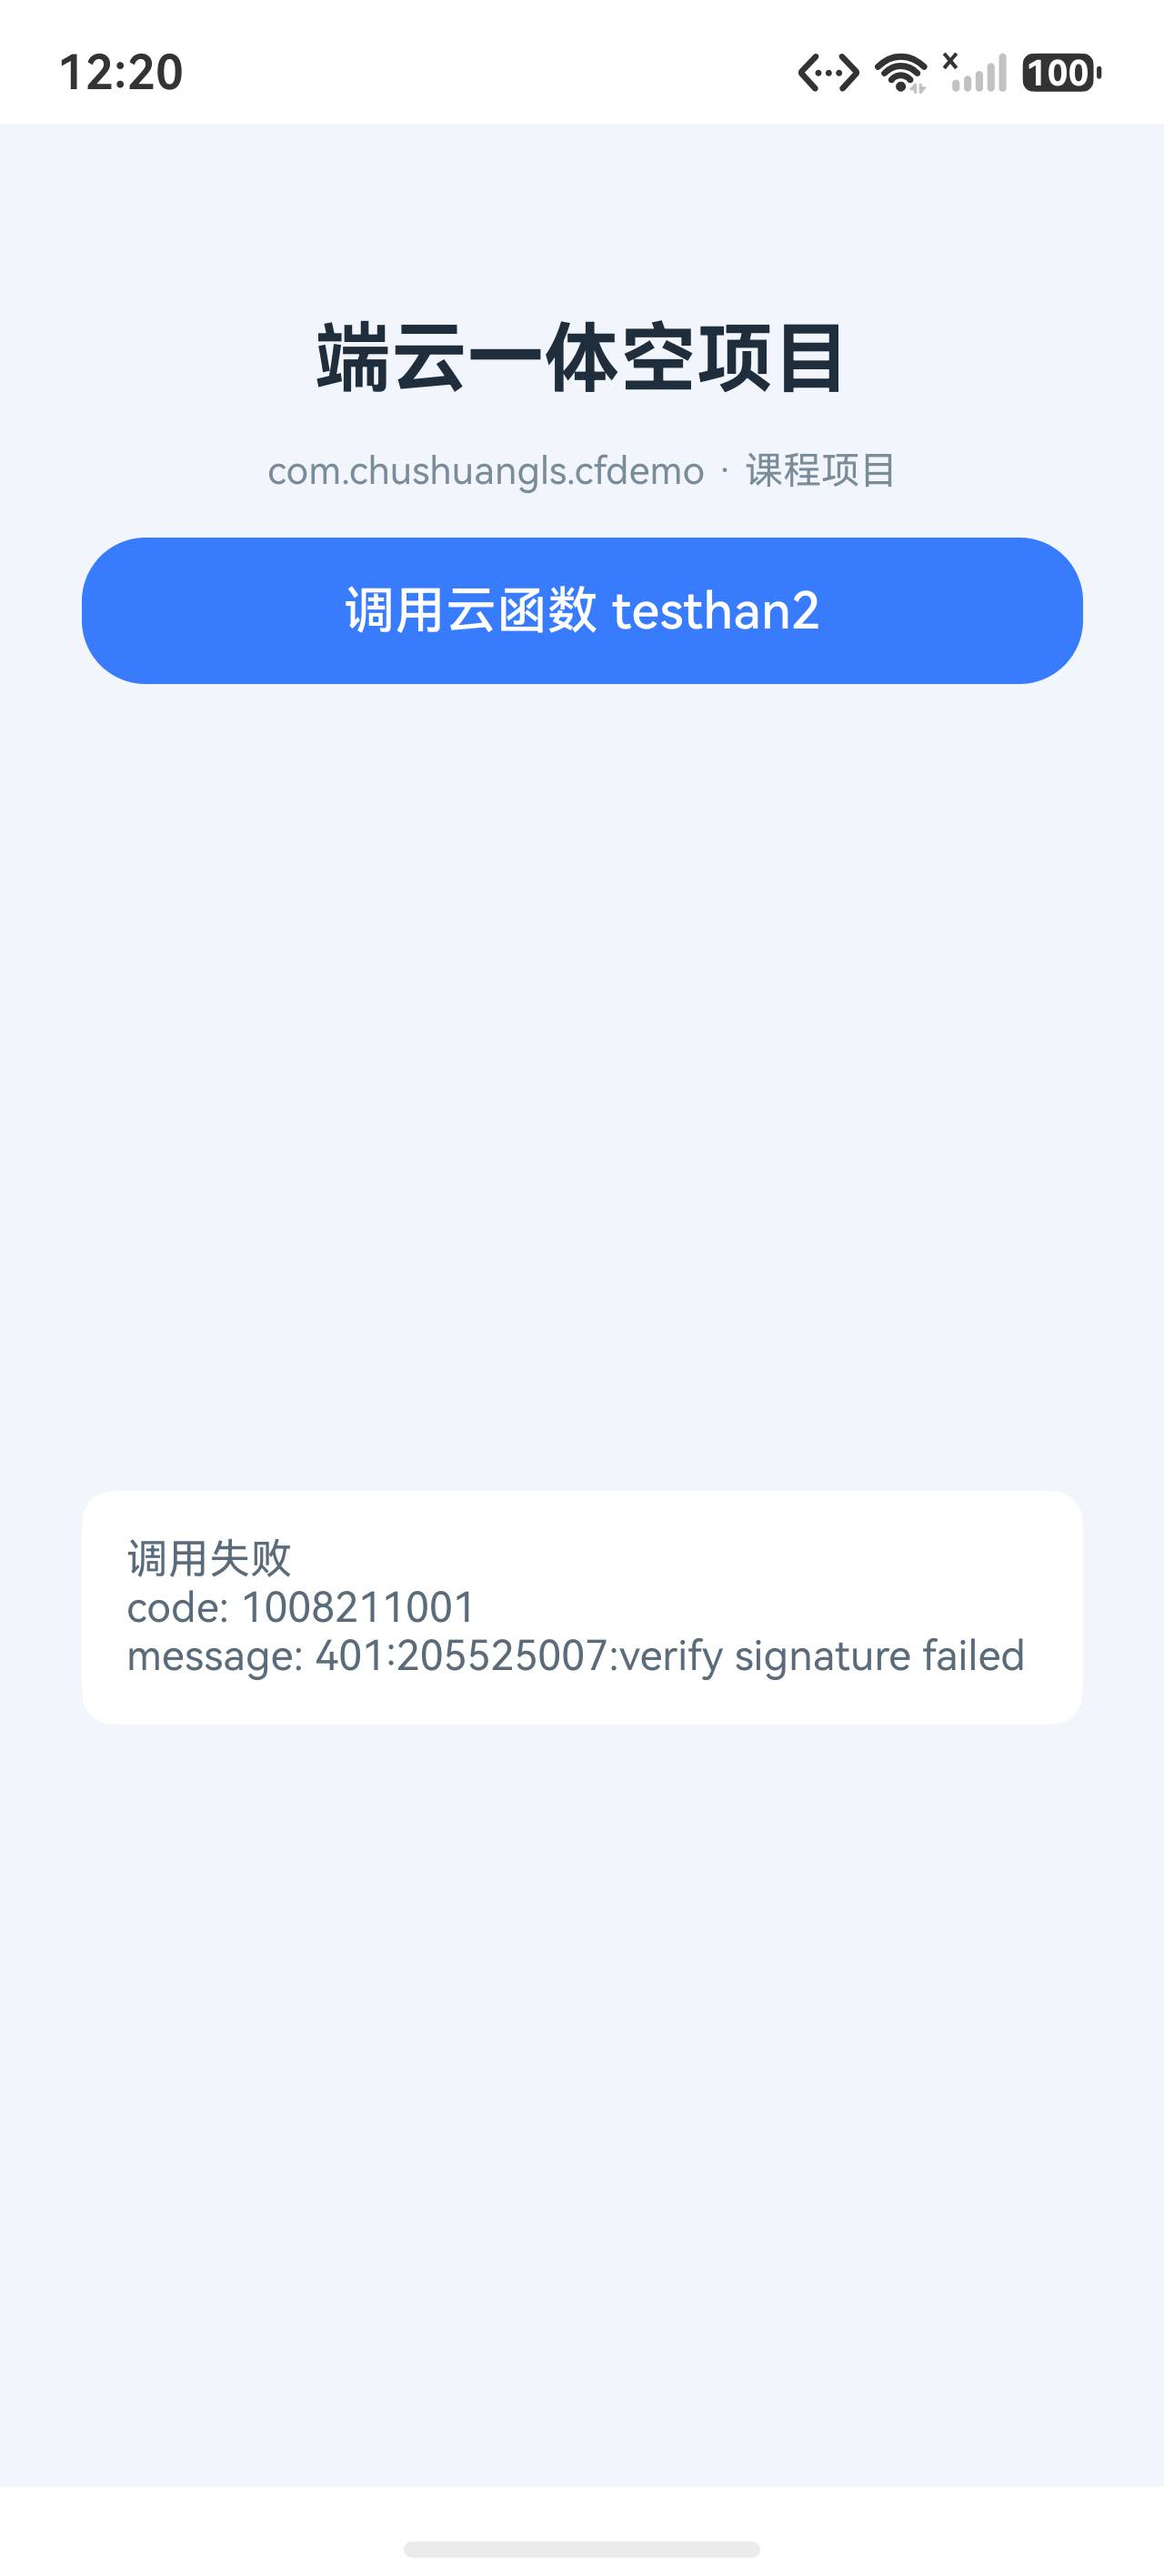
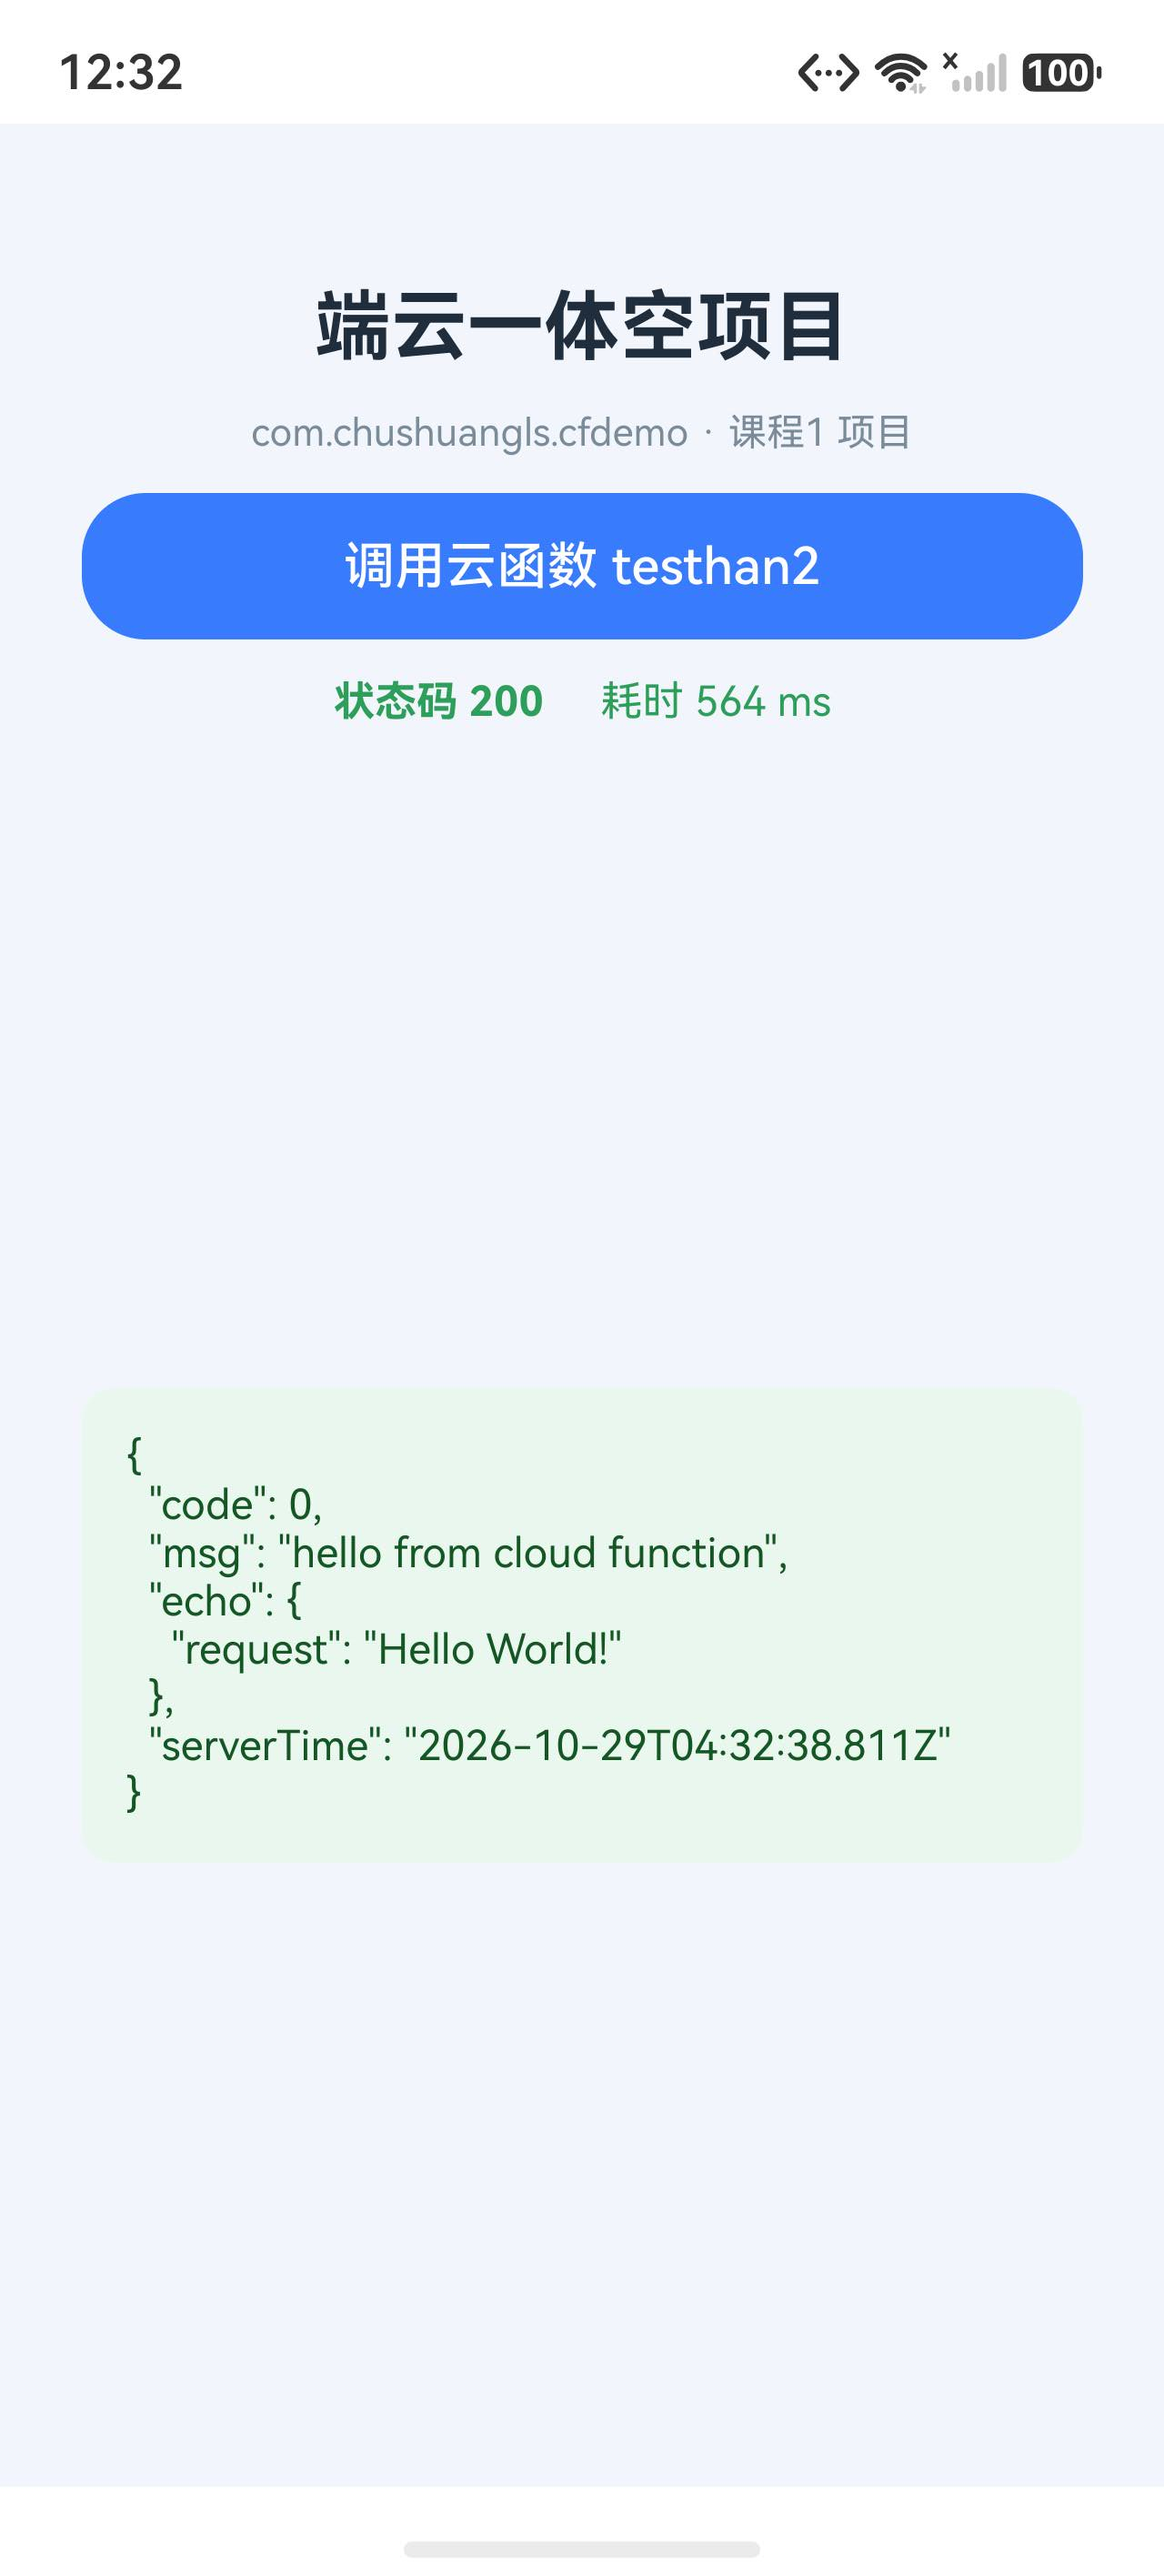
feat(cloud-integrated-demo): working cloud function call via AGC gateway (200)

diff --git a/cloud-integrated-demo/README.md b/cloud-integrated-demo/README.md
@@ -99,3 +99,38 @@ const res = await cloudFunction.call({
 
 如果希望它在 IDE 里可见可改，就在 `CloudProgram/cloudfunctions/` 下新建同名函数，
 再右键 `Deploy Cloud Function`（会覆盖云端同名函数的代码）。
+## 实际调用链路（当前实现，已实测 200）
+
+```
+POST https://connect-drcn.dbankcloud.cn/agc/apigw/oauth2/v1/token
+     {"grant_type":"client_credentials","client_id":...,"client_secret":...,"useJwt":1}
+  → access_token
+
+POST https://connect-drcn.dbankcloud.cn/agc/apigw/wisefunction/functions/4b7o26s1/testhan2-$latest
+     Authorization: Bearer <token>
+     client_id / appId / productId / sdkServiceName / sdkPlatform / sdkType / packageName
+  → 200 {"code":0,"msg":"hello from cloud function",...}
+```
+
+配置在 `entry/src/main/ets/common/CloudGateway.ets`。
+实测结果：状态码 200、耗时 564 ms。
+
+## 关于官方 `cloudFunction.call`（未走通，已记录）
+
+`@kit.CloudFoundationKit` 的 `cloudFunction.call({name:'testhan2', version:'$latest', data})`
+请求能到达服务端，但一直返回：
+
+```
+code: 1008211001
+message: 401:205525007:verify signature failed
+```
+
+已排查并排除：
+- 网络 / 网关可达 ✅
+- 应用与云函数同属项目 `101653523865475304` ✅
+- `agconnect-services.json` 包名匹配 ✅
+- AGC 已登记公钥指纹 `FA870D8A…420FA` ✅
+- 指纹变更后重新下载过配置文件（`client_secret` 已重新加密）✅
+
+仍失败，推测还需要在 DevEco 签名面板勾选「关联已注册应用」，让 AGC 把证书与项目正式绑定。
+在那之前，端侧调用走上面的直连方式。
